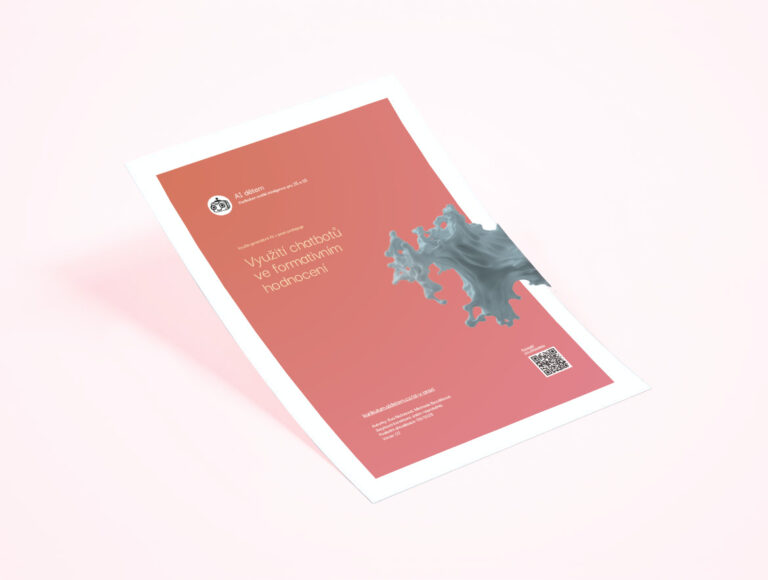
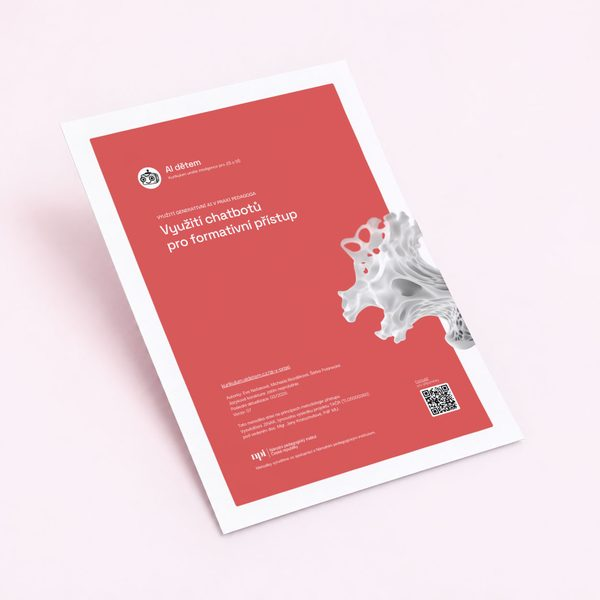
Metodické materiály: nové jednotné náhledy, čtvercové
- obálky metodik od Evy (Začínáme s chatboty, Rozvoj myšlení, Využití chatbotů
  pro formativní přístup) místo starých náhledů, 600 × 600 px
- náhledy na hlavní stránce i na stránce Metodické materiály jsou čtverce;
  náhled Tiny oříznutý na čtverec

Claude-Session: https://claude.ai/code/session_01LTxZSGURTx669f2UPSRGCy

diff --git a/src/lib/komponenty.ts b/src/lib/komponenty.ts
@@ -76,8 +76,8 @@ export function naZalozky(html: string, id: string): string {
 
 // Náhledové obrázky metodik podle adresy odkazu (public/img)
 const NAHLEDY: [string, string][] = [
-  ['chatboti-ve-vyuce-pracovni-listy', '/img/metodika-chatboti-ve-vyuce.png'],
-  ['rozvoj-mysleni', '/img/metodika-rozvoj-mysleni.png'],
+  ['chatboti-ve-vyuce-pracovni-listy', '/img/metodika-chatboti-ve-vyuce.jpg'],
+  ['rozvoj-mysleni', '/img/metodika-rozvoj-mysleni.jpg'],
   ['formativnim-hodnoceni', '/img/metodika-formativni-hodnoceni.jpg'],
 ];
 const IKONA_DOC = '<svg width="34" height="34" viewBox="0 0 24 24" fill="none" stroke="currentColor" stroke-width="1.8" stroke-linecap="round" stroke-linejoin="round" aria-hidden="true"><path d="M14 3H6a2 2 0 0 0-2 2v14a2 2 0 0 0 2 2h12a2 2 0 0 0 2-2V9z"></path><path d="M14 3v6h6M8 13h8M8 17h5"></path></svg>';

diff --git a/src/styles/global.css b/src/styles/global.css
@@ -160,7 +160,7 @@ a.card:hover { border-color: var(--sky-deep); }
 .nahledy { display: grid; grid-template-columns: repeat(auto-fill, minmax(min(100%, 300px), 1fr)); gap: 20px; }
 .prose .nahled { padding: 0 0 24px; overflow: hidden; gap: 10px; }
 .prose .nahled > :not(img):not(.nahled-tile) { margin: 0 22px; }
-.prose .nahled img, .nahled-tile { width: 100%; aspect-ratio: 16 / 10; object-fit: cover; border-radius: 0; margin-bottom: 6px; }
+.prose .nahled img, .nahled-tile { width: 100%; aspect-ratio: 1 / 1; object-fit: cover; border-radius: 0; margin-bottom: 6px; }
 .nahled-tile { display: grid; place-items: center; background: var(--sky-light); color: var(--sky-ink); }
 .prose .nahled h3 { margin-top: 0; font-size: 1.05rem; line-height: 1.3; }
 .prose .nahled h3 a { color: var(--ink); text-decoration: none; }
